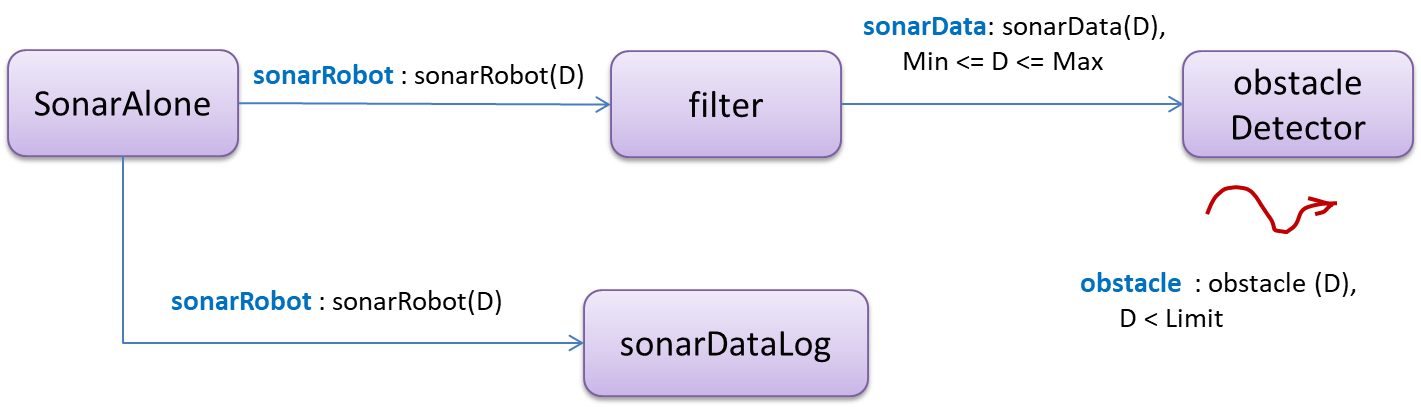
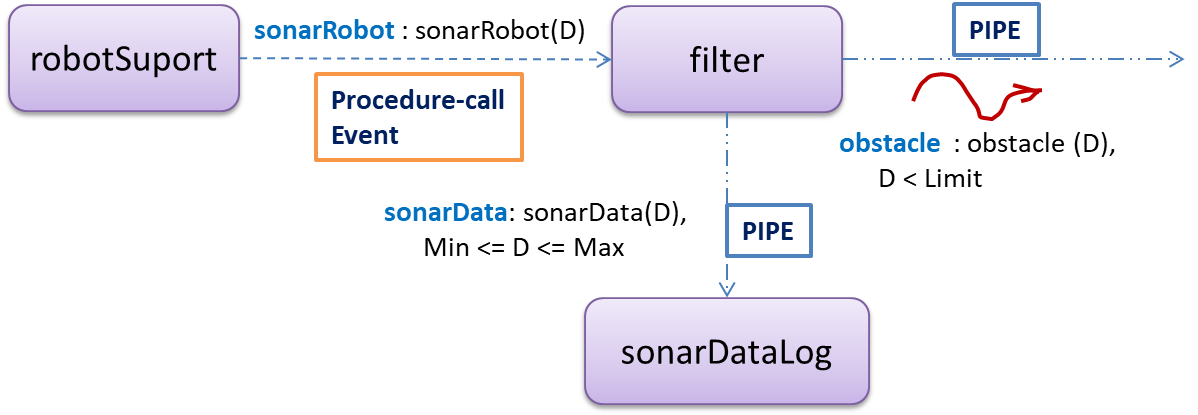
filters

diff --git a/it.unibo.qak.streams/resources/itunibo/streams/sonardatafilter.kt b/it.unibo.qak.streams/resources/itunibo/streams/sonardatafilter.kt
@@ -6,32 +6,52 @@ import alice.tuprolog.Struct
 import alice.tuprolog.Term
 
 class sonardatafilter( name : String, val producerActor : ActorBasicFsm) : ActorBasic( name, producerActor.scope ) {
+    private var LimitDistance  = 12
 	private var LastDistance = 0
-	private val minDistance  = 2
-	private val maxDistance  = 50
-	private val maxDelta     = 1
-	private val amplif       = 6	//radar does D/3
-//TODO: configure mindistance and maxdistcme on a sonarDataTHeory.pl
-	init{
-		subscribe( obstacleDetector("obsDetector", producerActor )  )
-		println("   $name |  subscribed the obsDetector")
-	}
+	private var minDistance  = 2
+	private var maxDistance  = 50
+	private var maxDelta     = 1
+	private var amplif       = 6	//radar does D/3
+	
+	public var modeReact   = "oop"  //"model"  | "pipe"
+ 	init{
+ 	}
     override suspend fun actorBody(msg: ApplMessage) {
-        //println("   $name |  receives msg= $msg ${producerActor.name}")
+        //println("   $name |  receives msg= $msg from ${producerActor.name}")
 //Event sonarRobot : sonar( DISTANCE ) FROM PLANT (sonarHCSR04SupportAsStream)
 		val vStr     = (Term.createTerm( msg.msgContent() ) as Struct).getArg(0)
-		val Distance = Integer.parseInt( vStr.toString() )
+		elabSonarData( vStr.toString() )
+	}
+	
+	/*
+ 	ENTRY IN OOP style (see ) 
+    */
+	fun elabSonarData( vStr: String ){
+		val Distance = Integer.parseInt( vStr )
 		val delta    = Math.abs( Distance - LastDistance )
-		//println("   $name |  delta= $delta")
-		if( Distance > minDistance && Distance < maxDistance && delta > maxDelta ){
+		//println("   $name |  elabSonarData = $vStr")
+		if( Distance > minDistance && Distance < maxDistance && delta >= maxDelta ){
+			detectObstacle( Distance )
 			LastDistance = Distance
 			val m1 = MsgUtil.buildEvent(name, "sonarData", "sonarData($vStr)")
 			//println("   ${name} |  using ${producerActor.name}  emit m1= $m1")
-			emitLocalStreamEvent( m1 )  //propagate to the pipe
+			//emitLocalStreamEvent( m1 )  //propagate to the pipe (when using obsDetector)
+			scope.launch{ producerActor.emit( m1 ) }	//data for the mind
 			val m2 = MsgUtil.buildEvent(name, "polar", "p(${Distance*amplif}, 90)")
-			scope.launch{ producerActor.emit( m2 ) }	//to propagate the data for a radar)
+			scope.launch{ producerActor.emit( m2 ) }	//data for a radar
  		}else{
 			//println("   $name |  DISCARDS $Distance ")
-		}
-	}  
+		}		
+	}
+	
+	//This operation can be delegated to the actor obstacleDetector in a PIPE
+	fun detectObstacle( Distance : Int ){
+		if( Distance < LimitDistance ){
+ 			val m1 = MsgUtil.buildEvent(name, "obstacle", "obstacle($Distance)")
+			println("   ${producerActor.name} |  sonardatafilter detectObstacle emit m1= $m1 ")
+			scope.launch{ producerActor.emit( m1 ) }
+		}else{
+			//println("   $name |  DISCARDS $Distance ")
+		}		
+	}
 }

diff --git a/it.unibo.eclipse.qak.test/src/it/unibo/robotControl/RobotControl.kt b/it.unibo.eclipse.qak.test/src/it/unibo/robotControl/RobotControl.kt
@@ -1,5 +1,5 @@
 /* Generated by AN DISI Unibo */ 
-package it.unibo.robotControl
+package it.unibo.robotcontrol
 
 import it.unibo.kactor.*
 import alice.tuprolog.*
@@ -8,7 +8,7 @@ import kotlinx.coroutines.delay
 import kotlinx.coroutines.launch
 import kotlinx.coroutines.runBlocking
 	
-class RobotControl ( name: String, scope: CoroutineScope ) : ActorBasicFsm( name, scope){
+class Robotcontrol ( name: String, scope: CoroutineScope ) : ActorBasicFsm( name, scope){
  	
 	override fun getInitialState() : String{
 		return "s0"
@@ -25,18 +25,20 @@ class RobotControl ( name: String, scope: CoroutineScope ) : ActorBasicFsm( name
 				state("moveAhead") { //this:State
 					action { //it:State
 						forward("send", "msg(moveforward)" ,"clienttcp" ) 
-						TimerActor("timer", scope, context!!, "local_tout_moveAhead", 1500.toLong())
+						stateTimer = TimerActor("timer_moveAhead", 
+							scope, context!!, "local_tout_robotcontrol_moveAhead", 1500.toLong() )
 					}
-					 transition(edgeName="t111",targetState="moveBack",cond=whenTimeout("local_tout_moveAhead"))   
+					 transition(edgeName="t111",targetState="moveBack",cond=whenTimeout("local_tout_robotcontrol_moveAhead"))   
 					transition(edgeName="t112",targetState="s0",cond=whenEvent("local_buttonCmd"))
 					transition(edgeName="t113",targetState="handleCollision",cond=whenEvent("collision"))
 				}	 
 				state("moveBack") { //this:State
 					action { //it:State
 						forward("send", "msg(movebackward)" ,"clienttcp" ) 
-						TimerActor("timer", scope, context!!, "local_tout_moveBack", 1500.toLong())
+						stateTimer = TimerActor("timer_moveBack", 
+							scope, context!!, "local_tout_robotcontrol_moveBack", 1500.toLong() )
 					}
-					 transition(edgeName="t114",targetState="moveAhead",cond=whenTimeout("local_tout_moveBack"))   
+					 transition(edgeName="t114",targetState="moveAhead",cond=whenTimeout("local_tout_robotcontrol_moveBack"))   
 					transition(edgeName="t115",targetState="s0",cond=whenEvent("local_buttonCmd"))
 					transition(edgeName="t116",targetState="handleCollision",cond=whenEvent("collision"))
 				}	 

diff --git a/it.unibo.eclipse.qak.robots19/src/it/unibo/basicrobot/Basicrobot.kt b/it.unibo.eclipse.qak.robots19/src/it/unibo/basicrobot/Basicrobot.kt
@@ -18,36 +18,11 @@ class Basicrobot ( name: String, scope: CoroutineScope ) : ActorBasicFsm( name, 
 		return { //this:ActionBasciFsm
 				state("s0") { //this:State
 					action { //it:State
-						itunibo.streams.sonarStreamPipe.create(myself)
-						solve("consult('basicRobotConfig.pl')","") //set resVar	
-						solve("robot(R,PORT)","") //set resVar	
-						if(currentSolution.isSuccess()) println("USING ROBOT : ${getCurSol("R")},  port= ${getCurSol("PORT")} ")
-						 		else{
-						 			 println("no robot")
-						 		}
-						if(currentSolution.isSuccess()) itunibo.robot.robotSupport.create(myself ,getCurSol("R").toString(), getCurSol("PORT").toString() )
+						println("ctxBasicRobot STARTED")
+						solve("consult('basicRobotConfig')","") //set resVar	
+						solve("robot(R)","") //set resVar	
+						if(currentSolution.isSuccess()) println("robot( payloadArg(${getCurSol("R")} )")
 					}
-					 transition( edgeName="goto",targetState="waitCmd", cond=doswitch() )
-				}	 
-				state("waitCmd") { //this:State
-					action { //it:State
-					}
-					 transition(edgeName="t00",targetState="handleUserCmd",cond=whenEvent("userCmd"))
-					transition(edgeName="t01",targetState="handleUserCmd",cond=whenDispatch("robotCmd"))
-				}	 
-				state("handleUserCmd") { //this:State
-					action { //it:State
-						println("$name in ${currentState.stateName} | $currentMsg")
-						if( checkMsgContent( Term.createTerm("robotCmd(CMD)"), Term.createTerm("robotCmd(MOVE)"), 
-						                        currentMsg.msgContent()) ) { //set msgArgList
-								itunibo.robot.robotSupport.move( "msg(${payloadArg(0)})"  )
-						}
-						if( checkMsgContent( Term.createTerm("userCmd(X)"), Term.createTerm("userCmd(MOVE)"), 
-						                        currentMsg.msgContent()) ) { //set msgArgList
-								itunibo.robot.robotSupport.move( "msg(${payloadArg(0)})"  )
-						}
-					}
-					 transition( edgeName="goto",targetState="waitCmd", cond=doswitch() )
 				}	 
 			}
 		}

diff --git a/it.unibo.eclipse.qak.planning19/src/it/unibo/plantester/Plantester.kt b/it.unibo.eclipse.qak.planning19/src/it/unibo/plantester/Plantester.kt
@@ -15,46 +15,13 @@ class Plantester ( name: String, scope: CoroutineScope ) : ActorBasicFsm( name, 
 	}
 		
 	override fun getBody() : (ActorBasicFsm.() -> Unit){
-		var stepCounter = 0
 		return { //this:ActionBasciFsm
 				state("s0") { //this:State
 					action { //it:State
 						println("&&&  plantester STARTED")
-						itunibo.planner.plannerUtil.initAI(  )
-						println("INITIAL MAP")
-						itunibo.planner.plannerUtil.showMap(  )
-						println("------------------------------------")
-						itunibo.planner.plannerUtil.startTimer(  )
-					}
-					 transition( edgeName="goto",targetState="exploreStep", cond=doswitch() )
-				}	 
-				state("exploreStep") { //this:State
-					action { //it:State
-						stepCounter = stepCounter + 1
-						itunibo.planner.plannerUtil.setGoal( "$stepCounter", "$stepCounter"  )
-						itunibo.planner.plannerUtil.doPlan(  )
-						itunibo.planner.plannerUtil.executeMoves(  )
-						println("MAP AFTER EXPLORE STEP")
-						itunibo.planner.plannerUtil.showMap(  )
-						println("------------------------------------")
-					}
-					 transition( edgeName="goto",targetState="backToHome", cond=doswitch() )
-				}	 
-				state("backToHome") { //this:State
-					action { //it:State
-						itunibo.planner.plannerUtil.setGoal( 0, 0  )
-						itunibo.planner.plannerUtil.doPlan(  )
-						itunibo.planner.plannerUtil.executeMoves(  )
-						println("MAP AFTER BACK TO HOME")
-						itunibo.planner.plannerUtil.showMap(  )
-						println("------------------------------------")
-					}
-					 transition( edgeName="goto",targetState="exploreStep", cond=doswitchGuarded({(stepCounter < 4)}) )
-					transition( edgeName="goto",targetState="endOfJob", cond=doswitchGuarded({! (stepCounter < 4)}) )
-				}	 
-				state("endOfJob") { //this:State
-					action { //it:State
-						itunibo.planner.plannerUtil.getDuration(  )
+						planner.plannerSupport.demo(  )
+						delay(1000) 
+						println("&&&  plantester ENDS")
 					}
 				}	 
 			}

diff --git a/it.unibo.eclipse.qak.test/src/it/unibo/control/Control.kt b/it.unibo.eclipse.qak.test/src/it/unibo/control/Control.kt
@@ -27,9 +27,10 @@ class Control ( name: String, scope: CoroutineScope ) : ActorBasicFsm( name, sco
 					action { //it:State
 						println("$name in ${currentState.stateName} | $currentMsg")
 						emit("ledCmd", "ledCmd(on)" ) 
-						TimerActor("timer", scope, context!!, "local_tout_sOn", 200.toLong())
+						stateTimer = TimerActor("timer_sOn", 
+							scope, context!!, "local_tout_control_sOn", 200.toLong() )
 					}
-					 transition(edgeName="t14",targetState="sOff",cond=whenTimeout("local_tout_sOn"))   
+					 transition(edgeName="t14",targetState="sOff",cond=whenTimeout("local_tout_control_sOn"))   
 					transition(edgeName="t15",targetState="s0",cond=whenDispatch("buttonCmd"))
 					transition(edgeName="t16",targetState="s0",cond=whenEvent("local_buttonCmd"))
 				}	 
@@ -37,9 +38,10 @@ class Control ( name: String, scope: CoroutineScope ) : ActorBasicFsm( name, sco
 					action { //it:State
 						println("$name in ${currentState.stateName} | $currentMsg")
 						emit("ledCmd", "ledCmd(off)" ) 
-						TimerActor("timer", scope, context!!, "local_tout_sOff", 200.toLong())
+						stateTimer = TimerActor("timer_sOff", 
+							scope, context!!, "local_tout_control_sOff", 200.toLong() )
 					}
-					 transition(edgeName="t27",targetState="sOn",cond=whenTimeout("local_tout_sOff"))   
+					 transition(edgeName="t27",targetState="sOn",cond=whenTimeout("local_tout_control_sOff"))   
 					transition(edgeName="t28",targetState="s0",cond=whenDispatch("buttonCmd"))
 					transition(edgeName="t29",targetState="s0",cond=whenEvent("local_buttonCmd"))
 				}	 

diff --git a/it.unibo.eclipse.qak.test/src/it/unibo/sonardetector/Sonardetector.kt b/it.unibo.eclipse.qak.test/src/it/unibo/sonardetector/Sonardetector.kt
@@ -24,9 +24,10 @@ class Sonardetector ( name: String, scope: CoroutineScope ) : ActorBasicFsm( nam
 				}	 
 				state("waitForEvents") { //this:State
 					action { //it:State
-						TimerActor("timer", scope, context!!, "local_tout_waitForEvents", 60000.toLong())
+						stateTimer = TimerActor("timer_waitForEvents", 
+							scope, context!!, "local_tout_sonardetector_waitForEvents", 60000.toLong() )
 					}
-					 transition(edgeName="t117",targetState="endOfJob",cond=whenTimeout("local_tout_waitForEvents"))   
+					 transition(edgeName="t117",targetState="endOfJob",cond=whenTimeout("local_tout_sonardetector_waitForEvents"))   
 					transition(edgeName="t118",targetState="sendToRadar",cond=whenEvent("sonar"))
 					transition(edgeName="t119",targetState="showObstacle",cond=whenEvent("sonarDetect"))
 				}	 
@@ -35,7 +36,7 @@ class Sonardetector ( name: String, scope: CoroutineScope ) : ActorBasicFsm( nam
 						println("$name in ${currentState.stateName} | $currentMsg")
 						if( checkMsgContent( Term.createTerm("sonar(SONAR,TARGET,DISTANCE)"), Term.createTerm("sonar(SONAR,TARGET,DISTANCE)"), 
 						                        currentMsg.msgContent()) ) { //set msgArgList
-								emit("polar", "p(${meta_msgArg(2)},90)" ) 
+								emit("polar", "p(payloadArg(2),90)" ) 
 						}
 					}
 					 transition( edgeName="goto",targetState="waitForEvents", cond=doswitch() )

diff --git a/it.unibo.eclipse.qak.test/src/it/unibo/radarControl/RadarControl.kt b/it.unibo.eclipse.qak.test/src/it/unibo/radarControl/RadarControl.kt
@@ -1,5 +1,5 @@
 /* Generated by AN DISI Unibo */ 
-package it.unibo.radarControl
+package it.unibo.radarcontrol
 
 import it.unibo.kactor.*
 import alice.tuprolog.*
@@ -8,7 +8,7 @@ import kotlinx.coroutines.delay
 import kotlinx.coroutines.launch
 import kotlinx.coroutines.runBlocking
 	
-class RadarControl ( name: String, scope: CoroutineScope ) : ActorBasicFsm( name, scope){
+class Radarcontrol ( name: String, scope: CoroutineScope ) : ActorBasicFsm( name, scope){
  	
 	override fun getInitialState() : String{
 		return "s0"
@@ -33,7 +33,7 @@ class RadarControl ( name: String, scope: CoroutineScope ) : ActorBasicFsm( name
 						println("$name in ${currentState.stateName} | $currentMsg")
 						if( checkMsgContent( Term.createTerm("p(Distance,Angle)"), Term.createTerm("p(D,A)"), 
 						                        currentMsg.msgContent()) ) { //set msgArgList
-								resources.radarSupport.sendData( "${meta_msgArg(0)}" ,"${meta_msgArg(1)}"  )
+								resources.radarSupport.sendData( payloadArg(0), payloadArg(1)  )
 						}
 					}
 					 transition( edgeName="goto",targetState="waitDataToShow", cond=doswitch() )

diff --git a/it.unibo.qak.streams/src/it/unibo/qakstream/Qakstream.kt b/it.unibo.qak.streams/src/it/unibo/qakstream/Qakstream.kt
@@ -19,7 +19,24 @@ class Qakstream ( name: String, scope: CoroutineScope ) : ActorBasicFsm( name, s
 				state("s0") { //this:State
 					action { //it:State
 						println("qakstream STARTS")
+						itunibo.streams.sonarStreamPipe.create(myself)
+						println("qakstream DONE")
 					}
+					 transition( edgeName="goto",targetState="doWork", cond=doswitch() )
+				}	 
+				state("doWork") { //this:State
+					action { //it:State
+					}
+					 transition(edgeName="t00",targetState="handleObstacle",cond=whenEvent("obstacle"))
+				}	 
+				state("handleObstacle") { //this:State
+					action { //it:State
+						
+									val duration = getDuration() //globalTimer started in sonarHCSR04SupportAsStream
+									println("duration = $duration")
+						println("$name in ${currentState.stateName} | $currentMsg")
+					}
+					 transition( edgeName="goto",targetState="doWork", cond=doswitch() )
 				}	 
 			}
 		}

diff --git a/it.unibo.qak.streams/resources/itunibo/streams/sonarHCSR04SupportAsStream.kt b/it.unibo.qak.streams/resources/itunibo/streams/sonarHCSR04SupportAsStream.kt
@@ -28,6 +28,7 @@ object sonarHCSR04SupportAsStream {
 				var data = reader.readLine()
 				//println("sonarHCSR04SupportAsStream data = $data"   )
 				if( data != null ){
+					actor.startTimer()
 	 				val m1 = "sonar( $data )"
 					//println("sonarHCSR04Support m1 = $m1"   )
 					//actor.emit("sonarRobot",m1 )			//AT MODEL LEVEL
